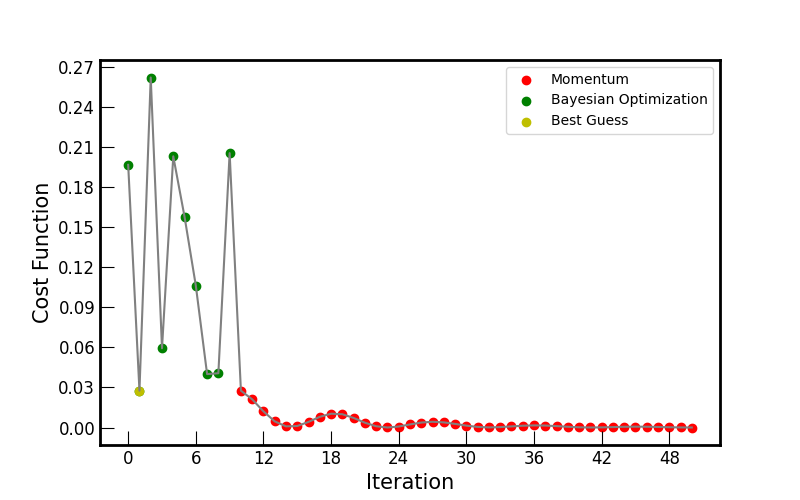
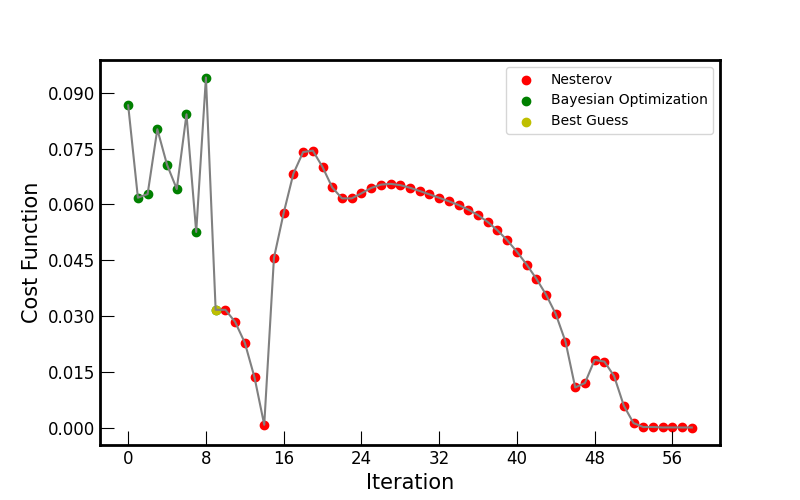
added momentum coefficient to Nesterov momentum optimizer

diff --git a/src/vqls/vqls_fast_and_slow.py b/src/vqls/vqls_fast_and_slow.py
@@ -298,7 +298,8 @@ if __name__ == "__main__":
     stepsize = 1.0
     tol = 1e-5
     # opt = GradientDescentQML(eta=stepsize, maxiter=ep, tol=tol)
-    opt = MomentumQML(eta=stepsize, maxiter=ep, tol=tol, beta=0.5)
+    # opt = MomentumQML(eta=stepsize, maxiter=ep, tol=tol, beta=0.5)
+    opt = NesterovMomentumQML(eta=stepsize, maxiter=ep, tol=tol, beta=0.5)
 
     # with bayes opt
     solver.opt(optimizer=opt,

diff --git a/src/optimizers/optim_qml.py b/src/optimizers/optim_qml.py
@@ -71,9 +71,10 @@ class MomentumQML(OptimizerQML):
 
 
 class NesterovMomentumQML(OptimizerQML):
-    def __init__(self, eta, tol, maxiter):
+    def __init__(self, eta, tol, maxiter, beta):
         super().__init__(eta, tol, maxiter)
         self.name = "Nesterov"
+        self.beta = beta
 
     def get_optimizer(self):
         return qml.NesterovMomentumOptimizer(self.eta)
